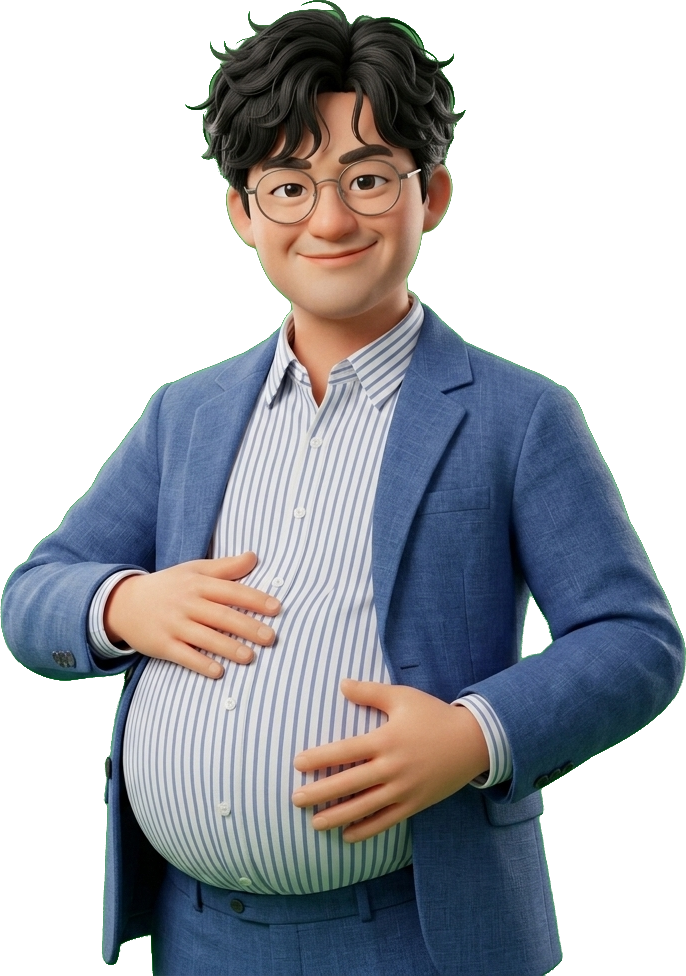
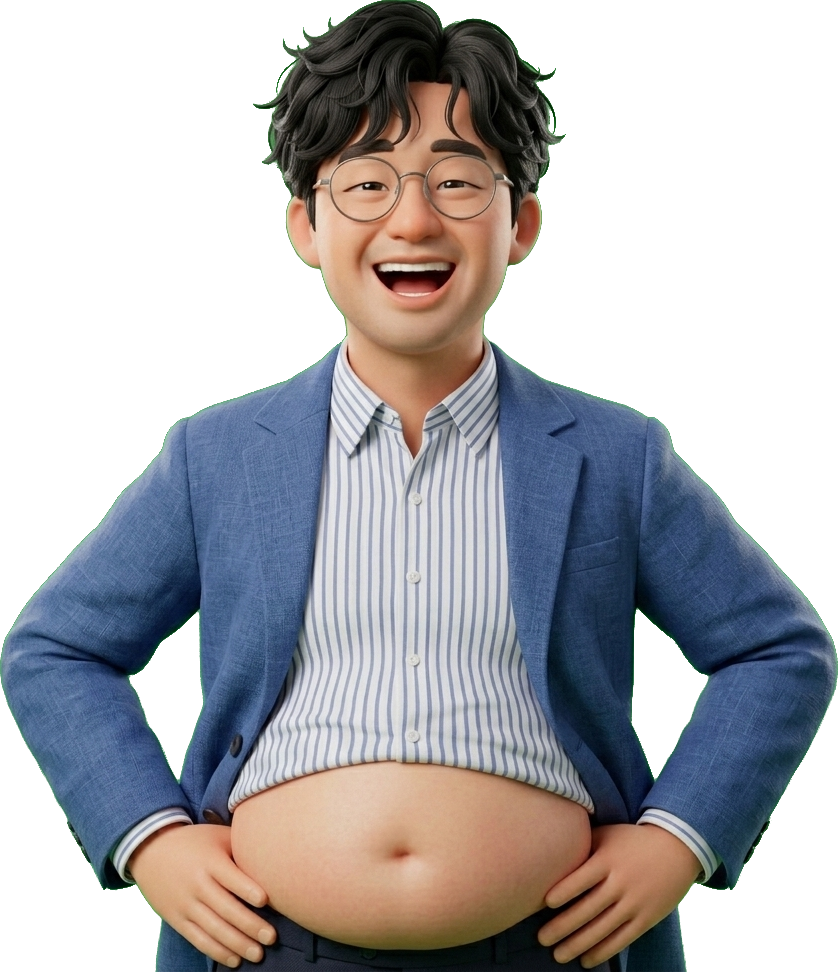
feat: expand 'cute_dog' sticker pack and recreate boss 'big_belly' sticker

diff --git a/packages/underverse/src/components/sticker-data.ts b/packages/underverse/src/components/sticker-data.ts
@@ -66,10 +66,14 @@ export const STICKER_PACKS: StickerPack[] = [
     name: "Cute Dog",
     thumbnail: "excited",
     stickers: [
-      { id: "excited", name: "Excited Dog" },
-      { id: "sad", name: "Sad Dog" },
-      { id: "cool", name: "Cool Dog" },
-      { id: "angry", name: "Angry Dog" },
+      { id: "excited", name: "Excited Dog", animation: "bounce" },
+      { id: "sad", name: "Sad Dog", animation: "wiggle" },
+      { id: "cool", name: "Cool Dog", animation: "pulse" },
+      { id: "angry", name: "Angry Dog", animation: "shake" },
+      { id: "sleeping", name: "Sleeping Dog", animation: "pulse" },
+      { id: "heart_eyes", name: "Heart Eyes Dog", animation: "pulse" },
+      { id: "crying", name: "Crying Dog", animation: "wiggle" },
+      { id: "thumbs_up", name: "Thumbs Up Dog", animation: "bounce" },
     ],
   },
   {